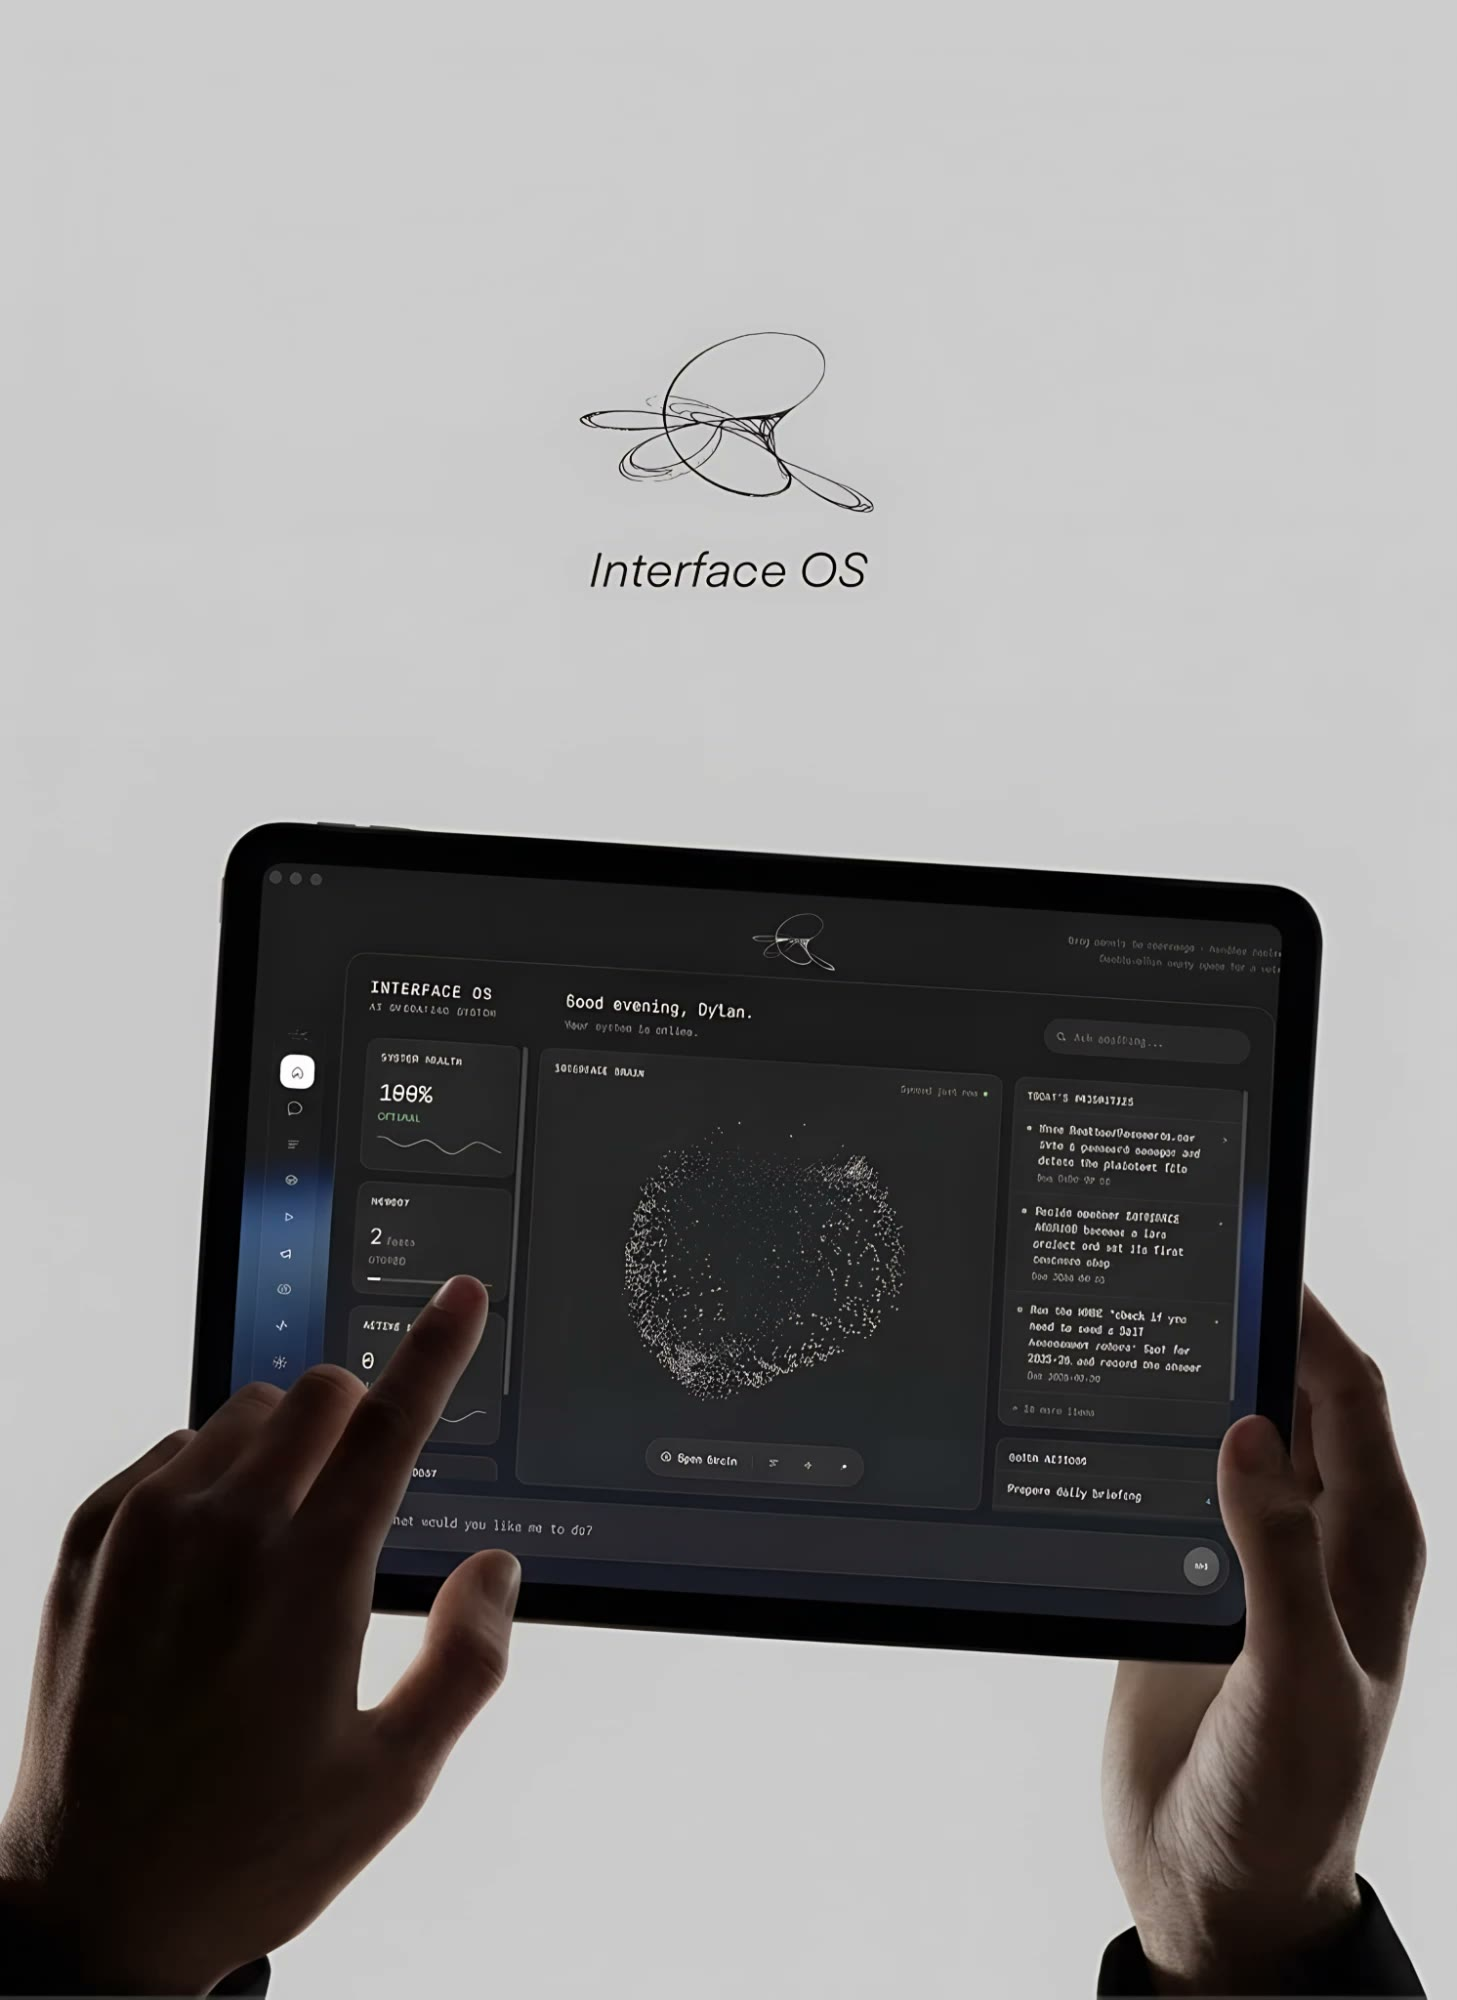
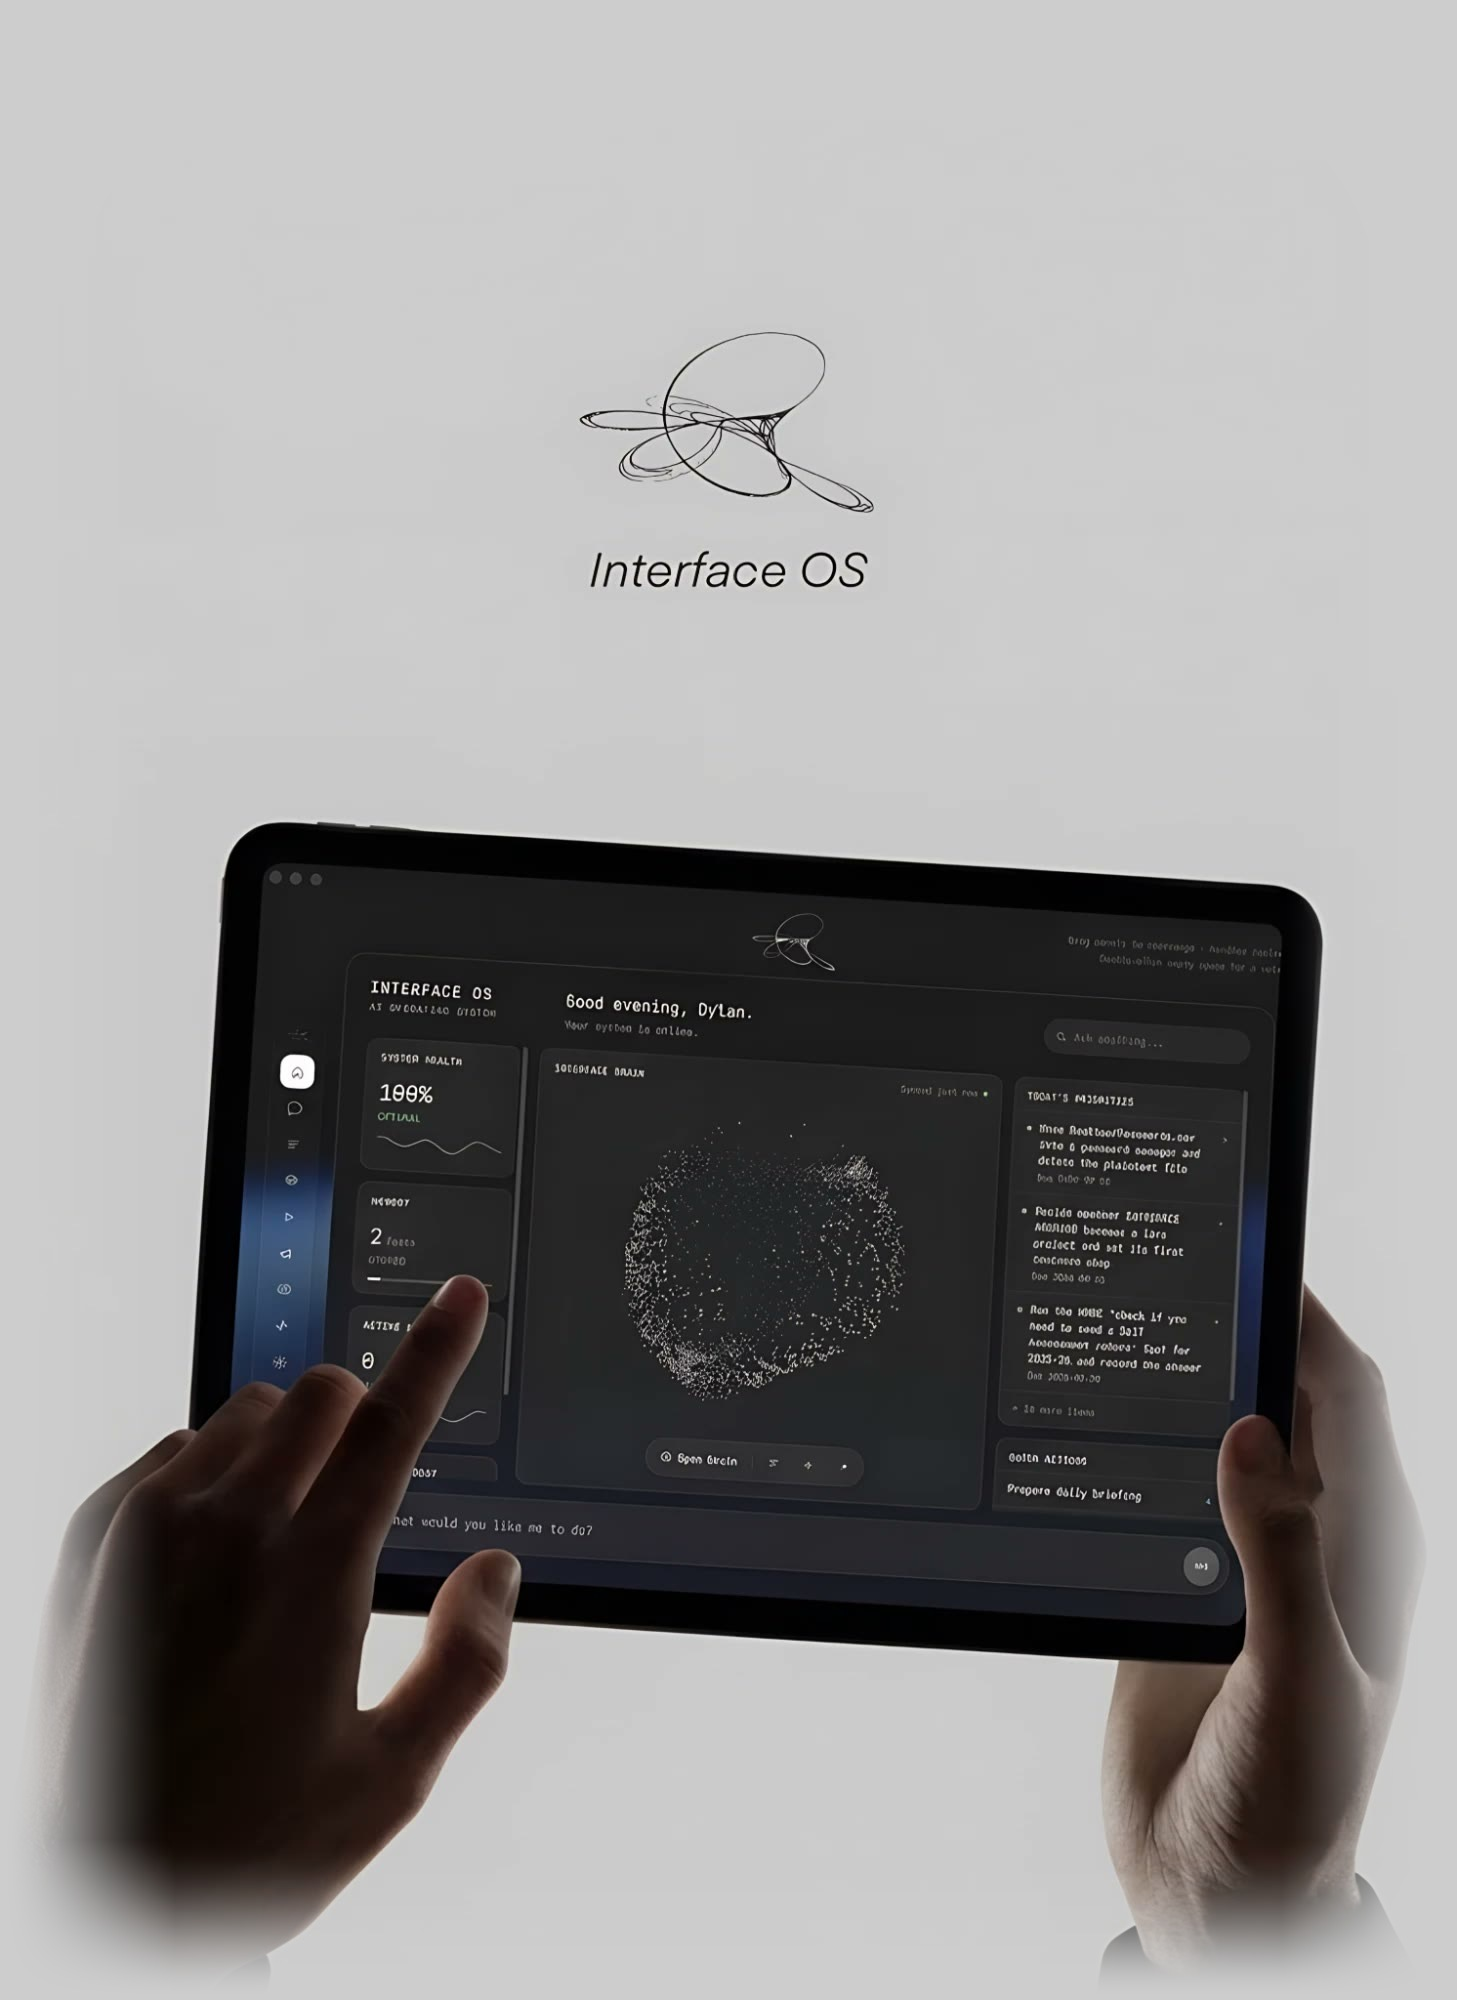
Bake edge feather into hero photo so no border shows

Changed region(s): [[0.7412, 0.651, 0.9883, 1.0], [0.0, 0.713, 0.2471, 1.0]]

diff --git a/style.css b/style.css
@@ -1017,7 +1017,7 @@ header.site-head nav a.nav-quote:hover { background: rgba(255,255,255,0.22); }
   will-change: transform;
 }
 .studio-hero-media img {
-  width: auto; height: auto; max-width: 100%; max-height: 78vh; display: block;
+  width: auto; height: auto; max-width: 100%; max-height: 78vh; display: block; border: 0; outline: 0;
   transition: transform .2s ease-out; will-change: transform;
 }
 @media (max-width: 900px) {

diff --git a/home.html b/home.html
@@ -78,7 +78,7 @@
 <link rel="preconnect" href="https://fonts.gstatic.com" crossorigin />
 <link href="https://fonts.googleapis.com/css2?family=JetBrains+Mono:wght@400;500;600&display=swap" rel="stylesheet" />
 
-<link rel="stylesheet" href="style.css?v=82c9388" />
+<link rel="stylesheet" href="style.css?v=5f1bec9" />
 </head>
 <body class="loading page-home-screen">
 

diff --git a/download.html b/download.html
@@ -78,7 +78,7 @@
 <link rel="preconnect" href="https://fonts.gstatic.com" crossorigin />
 <link href="https://fonts.googleapis.com/css2?family=JetBrains+Mono:wght@400;500;600&display=swap" rel="stylesheet" />
 
-<link rel="stylesheet" href="style.css?v=82c9388" />
+<link rel="stylesheet" href="style.css?v=5f1bec9" />
 </head>
 <body class="loading page-download">
 

diff --git a/contact.html b/contact.html
@@ -31,7 +31,7 @@
 <link rel="preconnect" href="https://fonts.gstatic.com" crossorigin />
 <link href="https://fonts.googleapis.com/css2?family=JetBrains+Mono:wght@400;500;600&display=swap" rel="stylesheet" />
 
-<link rel="stylesheet" href="style.css?v=82c9388" />
+<link rel="stylesheet" href="style.css?v=5f1bec9" />
 </head>
 <body class="loading page-contact">
 

diff --git a/design.html b/design.html
@@ -78,7 +78,7 @@
 <link rel="preconnect" href="https://fonts.gstatic.com" crossorigin />
 <link href="https://fonts.googleapis.com/css2?family=JetBrains+Mono:wght@400;500;600&display=swap" rel="stylesheet" />
 
-<link rel="stylesheet" href="style.css?v=82c9388" />
+<link rel="stylesheet" href="style.css?v=5f1bec9" />
 </head>
 <body class="loading page-design">
 

diff --git a/about.html b/about.html
@@ -77,7 +77,7 @@
 <link rel="preconnect" href="https://fonts.gstatic.com" crossorigin />
 <link href="https://fonts.googleapis.com/css2?family=JetBrains+Mono:wght@400;500;600&display=swap" rel="stylesheet" />
 
-<link rel="stylesheet" href="style.css?v=82c9388" />
+<link rel="stylesheet" href="style.css?v=5f1bec9" />
 </head>
 <body class="loading page-about">
 

diff --git a/quote.html b/quote.html
@@ -78,7 +78,7 @@
 <link rel="preconnect" href="https://fonts.gstatic.com" crossorigin />
 <link href="https://fonts.googleapis.com/css2?family=JetBrains+Mono:wght@400;500;600&display=swap" rel="stylesheet" />
 
-<link rel="stylesheet" href="style.css?v=82c9388" />
+<link rel="stylesheet" href="style.css?v=5f1bec9" />
 </head>
 <body class="loading page-quote">
 

diff --git a/index.html b/index.html
@@ -78,7 +78,7 @@
 <link rel="preconnect" href="https://fonts.gstatic.com" crossorigin />
 <link href="https://fonts.googleapis.com/css2?family=JetBrains+Mono:wght@400;500;600&display=swap" rel="stylesheet" />
 
-<link rel="stylesheet" href="style.css?v=82c9388" />
+<link rel="stylesheet" href="style.css?v=5f1bec9" />
 </head>
 <body class="loading page-home">
 

diff --git a/software.html b/software.html
@@ -78,7 +78,7 @@
 <link rel="preconnect" href="https://fonts.gstatic.com" crossorigin />
 <link href="https://fonts.googleapis.com/css2?family=JetBrains+Mono:wght@400;500;600&display=swap" rel="stylesheet" />
 
-<link rel="stylesheet" href="style.css?v=82c9388" />
+<link rel="stylesheet" href="style.css?v=5f1bec9" />
 </head>
 <body class="loading page-home">
 

diff --git a/work.html b/work.html
@@ -32,7 +32,7 @@
 <link rel="preconnect" href="https://fonts.gstatic.com" crossorigin />
 <link href="https://fonts.googleapis.com/css2?family=JetBrains+Mono:wght@400;500;600&display=swap" rel="stylesheet" />
 
-<link rel="stylesheet" href="style.css?v=82c9388" />
+<link rel="stylesheet" href="style.css?v=5f1bec9" />
 </head>
 <body class="loading page-work">
 
